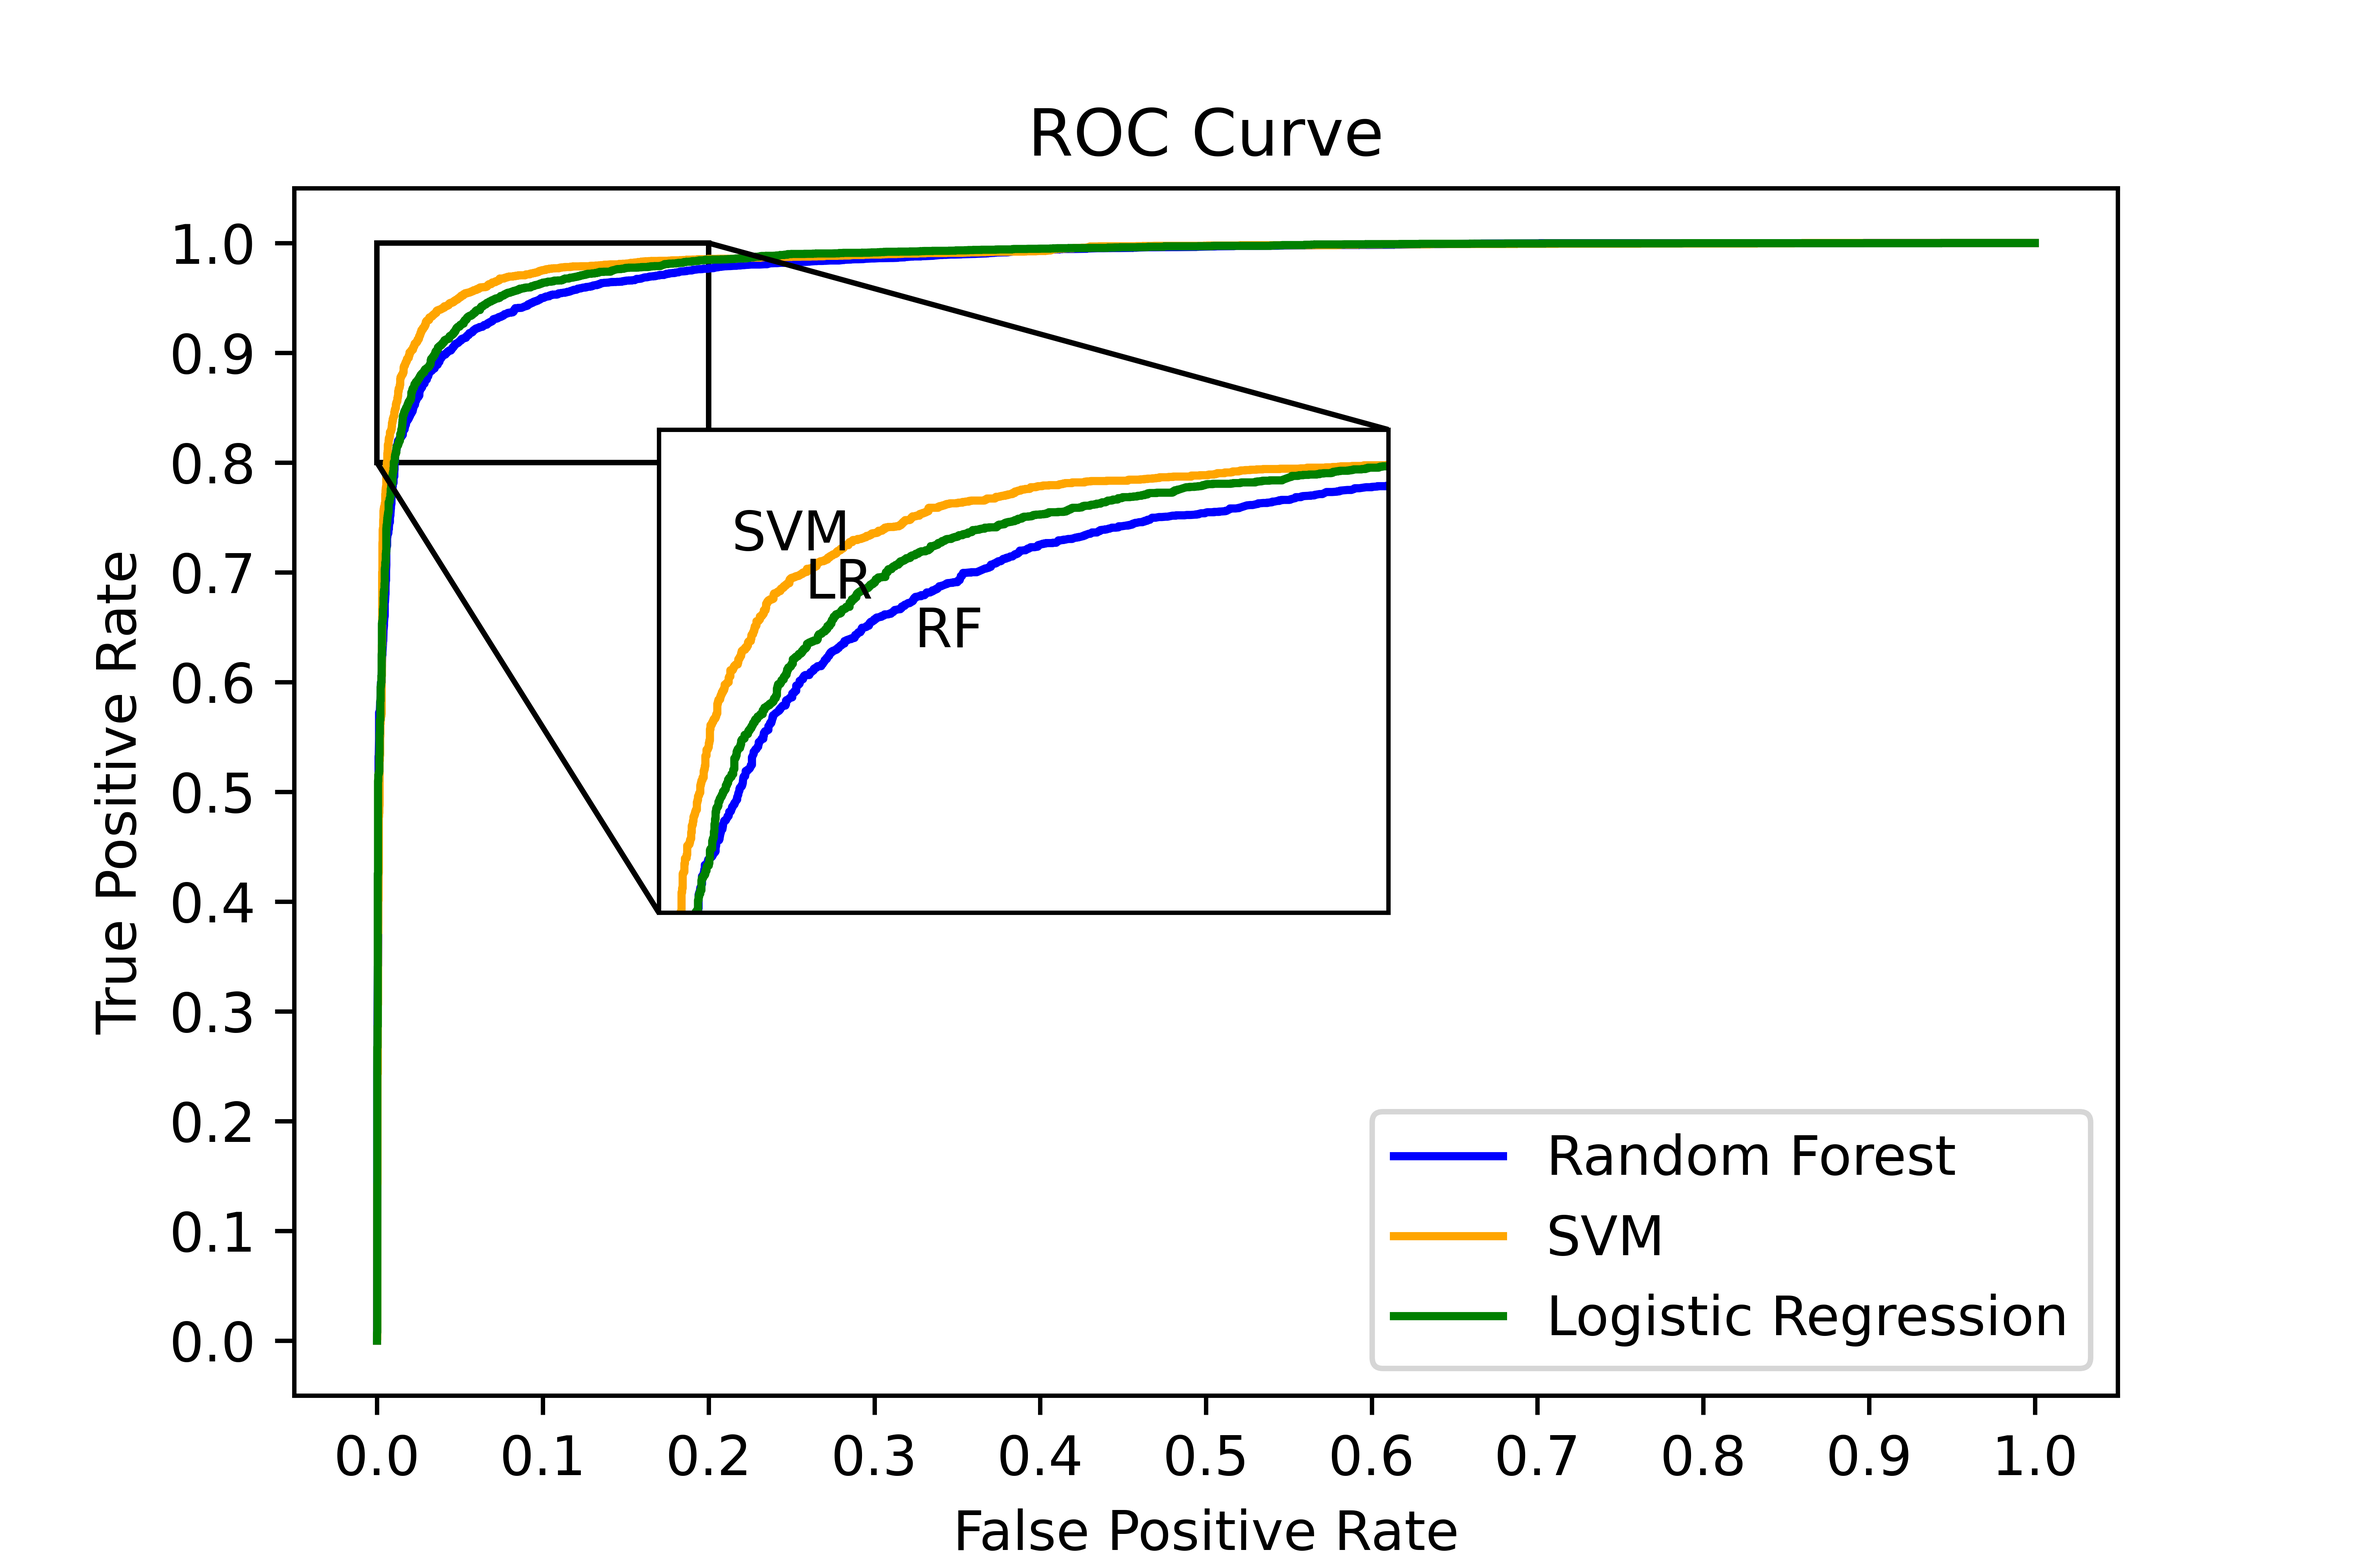
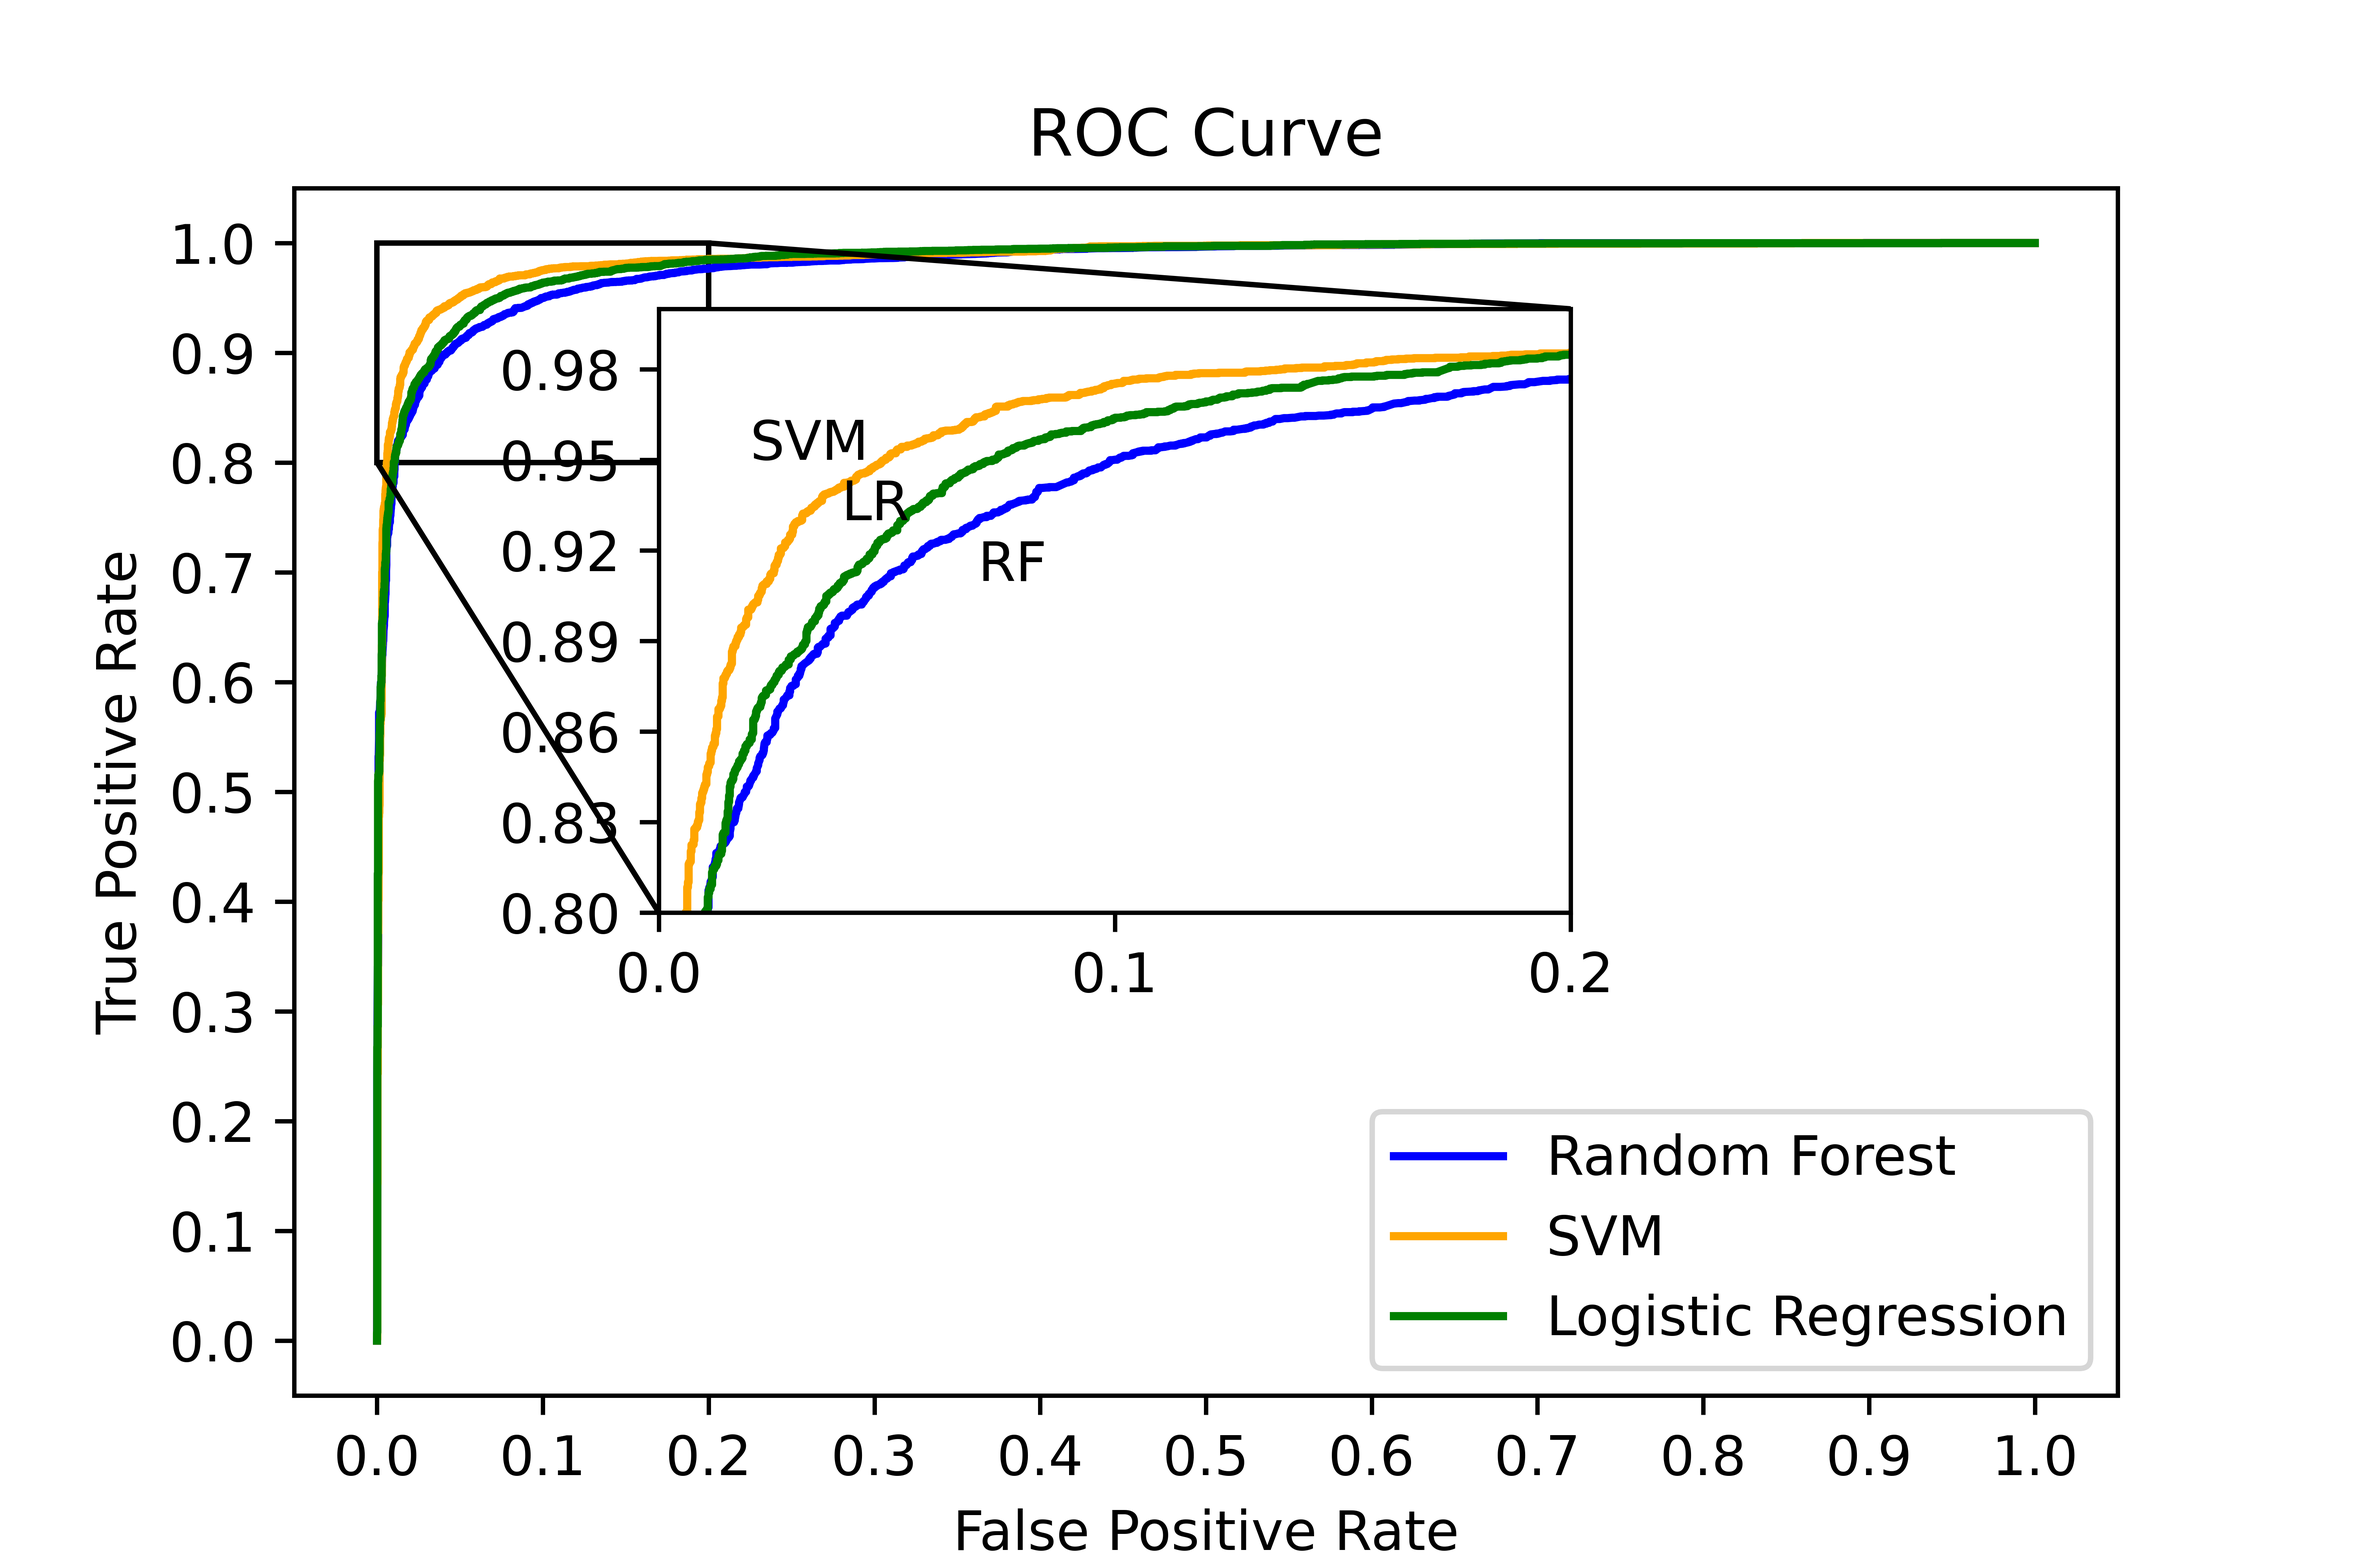
V4

diff --git a/Model/Final_Project.py b/Model/Final_Project.py
@@ -1,0 +1,185 @@
+#######################
+import numpy as np
+import matplotlib.pyplot as plt
+import pandas as pd
+import seaborn as sns
+import sklearn.metrics as metrics
+from sklearn.linear_model import Ridge, RidgeCV
+from sklearn.model_selection import LeaveOneOut, cross_val_score
+from sklearn.model_selection import train_test_split
+from sklearn.pipeline import Pipeline
+from sklearn.preprocessing import StandardScaler
+from sklearn.linear_model import LogisticRegression
+from sklearn.model_selection import GridSearchCV
+from sklearn.metrics import roc_auc_score
+from sklearn.metrics import roc_curve
+from sklearn.metrics import classification_report
+import warnings
+warnings.filterwarnings('ignore')
+#######################
+#LogisticRegression
+#######################
+# Load the origin data 
+X_train = pd.read_csv('X_train.csv')
+y_train = pd.read_csv('y_train.csv')
+X_test = pd.read_csv('X_test.csv')
+y_test = pd.read_csv('y_test.csv')
+# Scale the data
+scaler = StandardScaler()
+X_train = scaler.fit_transform(X_train)
+X_test = scaler.transform(X_test)
+# Fitting the Logistic Regression
+LR = LogisticRegression(random_state=0)
+LR.fit(X_train, y_train.values.ravel())
+# Cross validation 
+scores = cross_val_score(LR, X_train, y_train.values.ravel(),n_jobs = -1)
+print(f" Accuracy of Logistic Regression : {round(np.mean(scores) ,4) * 100} %")
+# Parameter optimization 
+parameters = {'C':[0.001,0.01,0.1,1,10,100,1000],'solver':['newton-cg','lbfgs','sag','saga'],'penalty':['l1','l2','elasticnet','none']}
+#parameters = {'C':[0.001],'solver':['newton-cg'],'penalty':['l1','l2','elasticnet','none']}
+LR_grid = GridSearchCV(LR,parameters,scoring='accuracy',n_jobs = -1)
+LR_grid.fit(X_train, y_train.values.ravel())
+print(f"Best parameters of Logistic Regression : {LR_grid.best_params_}")
+print(f"Best score of Logistic Regression : {LR_grid.best_score_}")
+# Compute the cost time
+import time
+start = time.time()
+Lr_final = LogisticRegression(C = 0.001,solver = 'newton-cg')
+Lr_final.fit(X_train, y_train.values.ravel())
+end = time.time()
+print(f"The cost time of Logistic Regression : {round(end - start,2)} s")
+# predicting time
+start = time.time()
+y_pred = Lr_final.predict(X_test)
+end = time.time()
+print(f"The predicting time of Logistic Regression : {round(end - start,2)} s")
+# Predict the test set
+y_pred = LR_grid.predict(X_test)
+# Save the y_pred to CSV
+y_pred = pd.DataFrame(y_pred)
+y_pred.to_csv('y_pred_LR.csv',index=False)
+# Evaluate the model
+print(f" Accuracy of Logistic Regression : {round(metrics.accuracy_score(y_test, y_pred) ,4) * 100} %")
+print(f" Confusion Matrix of Logistic Regression : \n {metrics.confusion_matrix(y_test, y_pred)}")
+print(f" Classification Report of Logistic Regression : \n {metrics.classification_report(y_test, y_pred)}")
+# Plot the confusion matrix
+sns.heatmap(metrics.confusion_matrix(y_test, y_pred), annot=True, fmt='d', cmap='Blues',cbar = False)
+plt.title('Confusion Matrix of Logistic Regression')
+plt.ylabel('True Label')
+plt.xlabel('Predicted Label')
+plt.show()
+# Plot the ROC curve
+y_pred_prob = LR_grid.predict_proba(X_test)[:,1]
+fpr, tpr, thresholds = roc_curve(y_test, y_pred_prob)
+plt.plot(fpr, tpr)
+plt.xlabel('False Positive Rate')
+plt.ylabel('True Positive Rate')
+plt.title('ROC Curve of Logistic Regression')
+plt.show()
+# Save the ROC curve to CSV
+fpr = pd.DataFrame(fpr)
+fpr.to_csv('fpr_LR.csv',index=False)
+tpr = pd.DataFrame(tpr)
+tpr.to_csv('tpr_LR.csv',index=False)
+# Save the PR as PR_LR
+precision, recall, thresholds = metrics.precision_recall_curve(y_test, y_pred_prob)
+PR_LR = pd.DataFrame(np.array([precision,recall]).T)
+PR_LR.to_csv('PR_LR.csv',index=False)
+
+
+from mpl_toolkits.axes_grid1.inset_locator import mark_inset
+from mpl_toolkits.axes_grid1.inset_locator import inset_axes
+# Set the path
+path = 'C:/Users/LAN/Downloads/208notes/STA208_final_proj/Model'
+# Load the data
+y_pred_LR = pd.read_csv('y_pred_LR.csv')
+y_pred_RF = pd.read_csv('y_pred_RF.csv')
+y_pred_SVM = pd.read_csv('y_pred_SVM.csv')
+ROC_RF = pd.read_csv('ROC_RF.csv')
+ROC_svm = pd.read_csv('ROC_svm.csv')
+fpr_LR = pd.read_csv('fpr_LR.csv')
+tpr_LR = pd.read_csv('tpr_LR.csv')
+PR_RF = pd.read_csv('PR_RF.csv')
+PR_svm= pd.read_csv('PR_svm.csv')
+PR_LR = pd.read_csv('PR_LR.csv')
+# Plot Roc in one plot
+fig, ax = plt.subplots(1, 1, figsize=(6, 4))
+ax.plot(ROC_RF.iloc[:,0], ROC_RF.iloc[:,1], label='Random Forest', color = 'blue')
+ax.plot(ROC_svm.iloc[:,0], ROC_svm.iloc[:,1], label='SVM',color = 'orange')
+ax.plot(fpr_LR, tpr_LR, label='Logistic Regression',color = 'green')
+ax.legend(loc='lower right')
+ax.set_xlabel('False Positive Rate')
+ax.set_ylabel('True Positive Rate')
+ax.set_title('ROC Curve')
+ax.set_xticks(np.arange(0, 1.1, 0.1))
+ax.set_yticks(np.arange(0, 1.1, 0.1))
+# Zoom out and add annotation
+axins = ax.inset_axes([0.2, 0.4, 0.5, 0.5])
+axins.plot(ROC_RF.iloc[:,0], ROC_RF.iloc[:,1], label='Random Forest', color = 'blue')
+axins.plot(ROC_svm.iloc[:,0], ROC_svm.iloc[:,1], label='SVM',color = 'orange')
+axins.plot(fpr_LR, tpr_LR, label='Logistic Regression',color = 'green')
+# Zoom in the upper left corner
+axins.set_xlim(0, 0.2)
+axins.set_ylim(0.8, 1)
+axins.set_xticks(np.arange(0, 0.3, 0.1))
+axins.set_yticks(np.arange(0.8, 1, 0.03))
+#axins.set_xticks([])
+#axins.set_yticks([])
+# Add connnecting lines
+mark_inset(ax, axins, loc1=3, loc2=1, fc="none", ec="k")
+# Add text
+axins.text(0.02,0.95,"SVM")
+axins.text(0.04,0.93,"LR")
+axins.text(0.07,0.91,"RF")
+plt.show()
+fig.savefig('ROC.png', dpi=1000)
+
+
+# Plot Precision-Recall in one plot
+fig, ax = plt.subplots(1, 1, figsize=(6, 4))
+ax.plot(PR_RF.iloc[:,0], PR_RF.iloc[:,1], label='Random Forest', color = 'blue')
+ax.plot(PR_svm.iloc[:,0], PR_svm.iloc[:,1], label='SVM',color = 'orange')
+ax.plot(PR_LR.iloc[:,0], PR_LR.iloc[:,1], label='Logistic Regression',color = 'green')
+ax.legend(loc='lower right')
+ax.set_xlabel('Recall')
+ax.set_ylabel('Precision')
+ax.set_title('Precision-Recall Curve')
+ax.set_xticks(np.arange(0.5, 1.05, 0.1))
+ax.set_yticks(np.arange(0, 1.1, 0.1))
+# Zoom out and add annotation
+axins = ax.inset_axes([0.4, 0.4, 0.4, 0.4])
+axins.plot(PR_RF.iloc[:,0], PR_RF.iloc[:,1], label='Random Forest')
+axins.plot(PR_svm.iloc[:,0], PR_svm.iloc[:,1], label='SVM')
+axins.plot(PR_LR.iloc[:,0], PR_LR.iloc[:,1], label='Logistic Regression')
+# Zoom in the upper right corner
+axins.set_xlim(0.9, 1)
+axins.set_ylim(0.8, 1)
+axins.set_xticks([])
+axins.set_yticks([])
+# Add connnecting lines
+mark_inset(ax, axins, loc1=2, loc2=4, fc="none", ec="k")
+# Add text
+axins.text(0.97,0.95,"SVM")
+axins.text(0.95,0.93,"LR")
+axins.text(0.92,0.91,"RF")
+plt.show()
+
+# Save the ROC and PR plot
+fig.savefig('PR.png', dpi=1000)
+
+
+
+# Scatter Plot of the SVM classifier
+X_min, X_max = X_test[:,0].min()-1,X_test[:,0]+1
+Y_min, Y_max = X_test[:,1].min()-1,X_test[:,1]+1
+xx, yy = np.meshgrid(np.arange(X_min, X_max, 0.02),
+                     np.arange(Y_min, Y_max, 0.02))
+Z = clf.predict(np.c_[xx.ravel(), yy.ravel()])
+Z = Z.reshape(xx.shape)
+plt.contourf(xx, yy, Z, alpha=0.4)
+plt.scatter(X_test[:,0], X_test[:,1], c=y_test, s=20, edgecolor='k')
+plt.xlim(xx.min(), xx.max())
+plt.ylim(yy.min(), yy.max())
+plt.title("SVM")
+plt.show()
+
